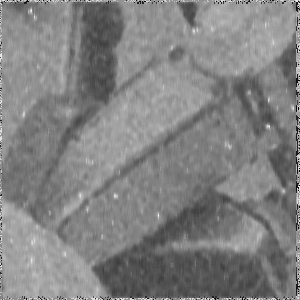
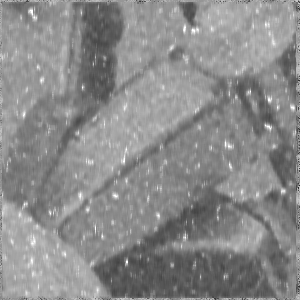
we are done

diff --git a/miniproject01/report/sections/gaussian.tex b/miniproject01/report/sections/gaussian.tex
@@ -9,10 +9,9 @@ By analyzing image 2 in an uniform area it can be seen that the image has both s
 \label{fig:hist2_uniform}
 \end{figure}
 
-As in section \ref{image_1} this is removed with a shifted median filter.
 The amount of white in the image is 30\% and the amount of black is 10\%.
-The shifted midpoint was thus chosen to be 40\%.
-It was found that a 5x5 filter removed the extreme values but was not efficient at removing the rest of the noise.
+The salt and pepper noise is removed with an adaptive median filter.
+An adaptive median filter is a filter that starts with a kernel size of 5x5 and automatically makes the kernel size larger if the median is the same as the extreme values.
 A harmonic mean filter is used to remove the remaining salt noise.
 In figure \ref{fig:hist2_median_harmonic} can it be seen that the removal of salt and pepper noise was successful.
 It can be seen that the two filters removed the white noise.
@@ -25,14 +24,14 @@ The black parts is not pepper noise but rather black added from the edge, where 
 \label{fig:hist2_median_harmonic}
 \end{figure}
 
-The variance was found in the uniform area to be $56.5$.
+The variance was found in the uniform area to be $116.6$.
 Gaussian noise remains and this was removed with a bilateral filter.
 A bilateral filter can simplify an image by removing Gaussian noise.
 If the image suffers from Gaussian noise, it can be assumed different colors within a variance is supposed to be the same color.
 A second parameter for the OpenCV implementation of the filter is the sigma space / intensity space. 
 This is kept low to avoid all colors from coming together. 
 A value of 3 has been chosen.
-In figure \ref{fig:hist2_bilateral} can it be seen that the variance has decreased to $20.3$ so the filter is deemed appropriate.
+In figure \ref{fig:hist2_bilateral} can it be seen that the variance has decreased to $36.1$ so the filter is deemed appropriate.
 
 \begin{figure}[H]
 \centering
@@ -42,7 +41,7 @@ In figure \ref{fig:hist2_bilateral} can it be seen that the variance has decreas
 \end{figure}
 
 To see the effect of on the complex area, the same filters have been applied to that region.
-First the median filter is applied, leading to the image shown in figure \ref{fig:complex2_median}.
+First the adaptive median filter is applied, leading to the image shown in figure \ref{fig:complex2_median}.
 Then the harmonic filter is applied, shown in figure \ref{fig:complex2_harmonic}.
 Then the bilateral filter is applied, shown in figure \ref{fig:complex2_bilatteral}.
 
@@ -51,7 +50,7 @@ Then the bilateral filter is applied, shown in figure \ref{fig:complex2_bilatter
   \begin{subfigure}{\linewidth}
   \centering
     \includegraphics[width = \cutOutWidth]{graphics/complex2_median.png}
-    \caption{After median filter.}
+    \caption{After adaptive median filter.}
     \label{fig:complex2_median}
   \end{subfigure}
   
@@ -89,9 +88,9 @@ It was therefore decided not to use the histogram equalization on the final imag
 
 The resulting sequence is thus:
 \begin{itemize}
- \item Shifted median filter, kernel size 5x5, shifted midpoint to 40\%.
+ \item Adaptive median filter.
  \item Harmonic mean filter, kernel size 5x5.
- \item Bilateral filter, kernel size 11x11, variance of $56.5$, depth of 3.
+ \item Bilateral filter, kernel size 11x11, variance of $116.6$, depth of 3.
 \end{itemize}
 The resulting image restoration of image 2 can be seen in figure \ref{fig:image_2_restored}.
 

diff --git a/miniproject01/code/imagerestoration/part02.cpp b/miniproject01/code/imagerestoration/part02.cpp
@@ -24,11 +24,9 @@ void part02(cv::Mat &image,
 
     temp = uniform.clone();
     temp2 = temp.clone();
-    median_filter(uniform, temp,5,1,quantile);
+    adaptive_median_filter(uniform, temp);
     temp2 = temp.clone();
-//        cv::imshow("median filter 5,1", temp / 255);
     applyHarmonicMean(temp2,temp,5);
-//        cv::imshow("harmonic mean", temp / 255);
         make_histogram(temp,histImg,histogram);
         hist_median = histImg.clone();
     temp2 = temp.clone();
@@ -37,11 +35,8 @@ void part02(cv::Mat &image,
     std::cout << "image 2, after median, \tmean: " << mean << " var: " << var << '\n';
     cv::bilateralFilter(temp2,temp,11,var,3);
     temp2 = temp.clone();
-//        cv::imshow("bilateral 11, 3, uniform", temp / 255);
     make_histogram(temp,histImg,histogram);
         hist_bilatteral = histImg.clone();
-//        cv::imshow("histogram after1",histImg);
-//        cv::imshow("median2", temp2 / 255);
     double new_var;
     stat(temp2,temp,mean,new_var,10);
     std::cout << "image 2, after bilateral, \tmean: " << mean << " var: " << new_var << '\n';
@@ -49,31 +44,23 @@ void part02(cv::Mat &image,
 
 //    Investigate complex area
     cv::Mat complex(org,AREA_COMPLEX);
-    median_filter(complex,temp,5,1,quantile);
-//    cv::imshow("median",temp/255);
+    adaptive_median_filter(complex,temp);
     complex_median = temp.clone();
     applyHarmonicMean(complex_median,temp,5);
-//    cv::imshow("har",temp/255);
     complex_harmonic = temp.clone();
     cv::bilateralFilter(complex_harmonic,temp,11,var,3);
-//    cv::imshow("bilateral",temp/255);
     complex_bilatteral = temp.clone();
     applyHistogramEqualization(complex_bilatteral,temp,15);
-//    cv::imshow("hiseq",temp/255);
     complex_histeq = temp.clone();
 //    See if the image gets better with equalization
     temp2 = temp.clone();
     median_filter(temp2,temp,7,3);
-//    cv::imshow("median2",temp/255);
     temp2 = temp.clone();
     applyHistogramEqualization(temp2,temp,15);
-//    cv::imshow("histeq alt",temp/255);
     complex_smoothed_histeq = temp.clone();
-//    cv::waitKey(0);
-//    cv::destroyAllWindows();
 
 //    apply to large image
-    median_filter(image, final_out,5,1,quantile);
+    adaptive_median_filter(image, final_out);
     applyHarmonicMean(final_out, temp, 5);
     cv::bilateralFilter(temp,final_out,11,var,3);
 }

diff --git a/miniproject01/code/imagerestoration/median_filter.cpp b/miniproject01/code/imagerestoration/median_filter.cpp
@@ -41,9 +41,9 @@ void median_filter(const cv::Mat &input, cv::Mat &output, int kernel_size, int m
 }
 
 void adaptive_median_filter(const cv::Mat &input, cv::Mat &output){
-    int kernel_size = 3;
+    int kernel_size = 5;
     int length = kernel_size*kernel_size;
-    const float threshold = 5;
+    const int max_kernel = 25;
     float temp;
     int j;
     int middel_value;
@@ -52,9 +52,9 @@ void adaptive_median_filter(const cv::Mat &input, cv::Mat &output){
     bool finished;
     for(int x=kernel_offset; x<input.cols-kernel_offset; ++x){ //borders are just kept; in a 3 by 3 kernel this means 1st pixel is ignored
         for(int y=kernel_offset; y<input.rows-kernel_offset; ++y){
-            kernel_size = 3;
+            kernel_size = 5;
             finished = false;
-            while(!finished){
+            while(!finished && (kernel_size < max_kernel)){
                 length = kernel_size*kernel_size;
                 middel_value = length/2;
                 float neighbours[length];
@@ -76,7 +76,7 @@ void adaptive_median_filter(const cv::Mat &input, cv::Mat &output){
                 }
                 //if the midpoint is not equal to the extremes, move on, else increase kernel size
                 median = neighbours[middel_value];
-                if( (median < (neighbours[0] - threshold)) || (median > (neighbours[length] + threshold)) ){
+                if( (median > neighbours[0]) || (median < neighbours[length]) ){
                     finished = true;
                 } else if( ( (y - kernel_size) < 0         ) ||
                            ( (y + kernel_size) > input.rows) ||

diff --git a/miniproject01/code/imagerestoration/main.cpp b/miniproject01/code/imagerestoration/main.cpp
@@ -34,7 +34,7 @@ int main(){
     cv::Mat_<float> out;
 
 
-    int to_run = PART(1) | PART(2) | PART(3) | PART(4);
+    int to_run = PART(1) | PART(2);// | PART(3) | PART(4);
 
     // part 1
     if(to_run & PART(1)){

diff --git a/miniproject01/report/main.tex b/miniproject01/report/main.tex
@@ -1,4 +1,5 @@
 \documentclass[12pt,a4paper,conference]{IEEEtran}
+% \documentclass[12pt,a4paper]{report}
 \usepackage[utf8]{inputenc}
 \usepackage[english]{babel}
 \usepackage{amsmath}
